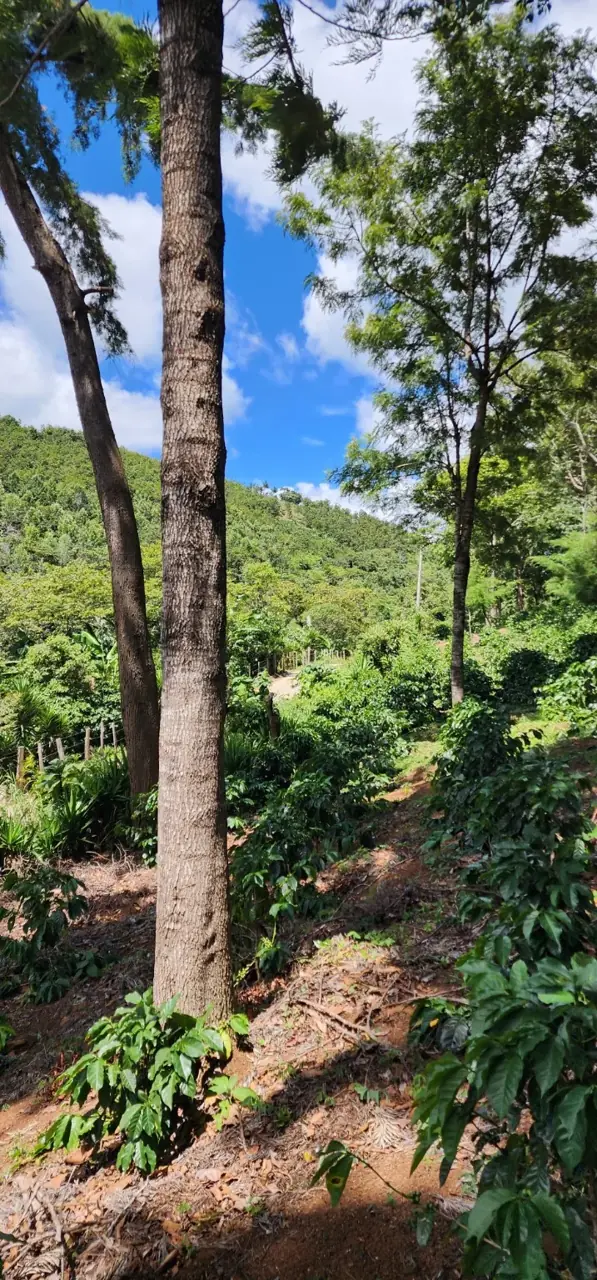
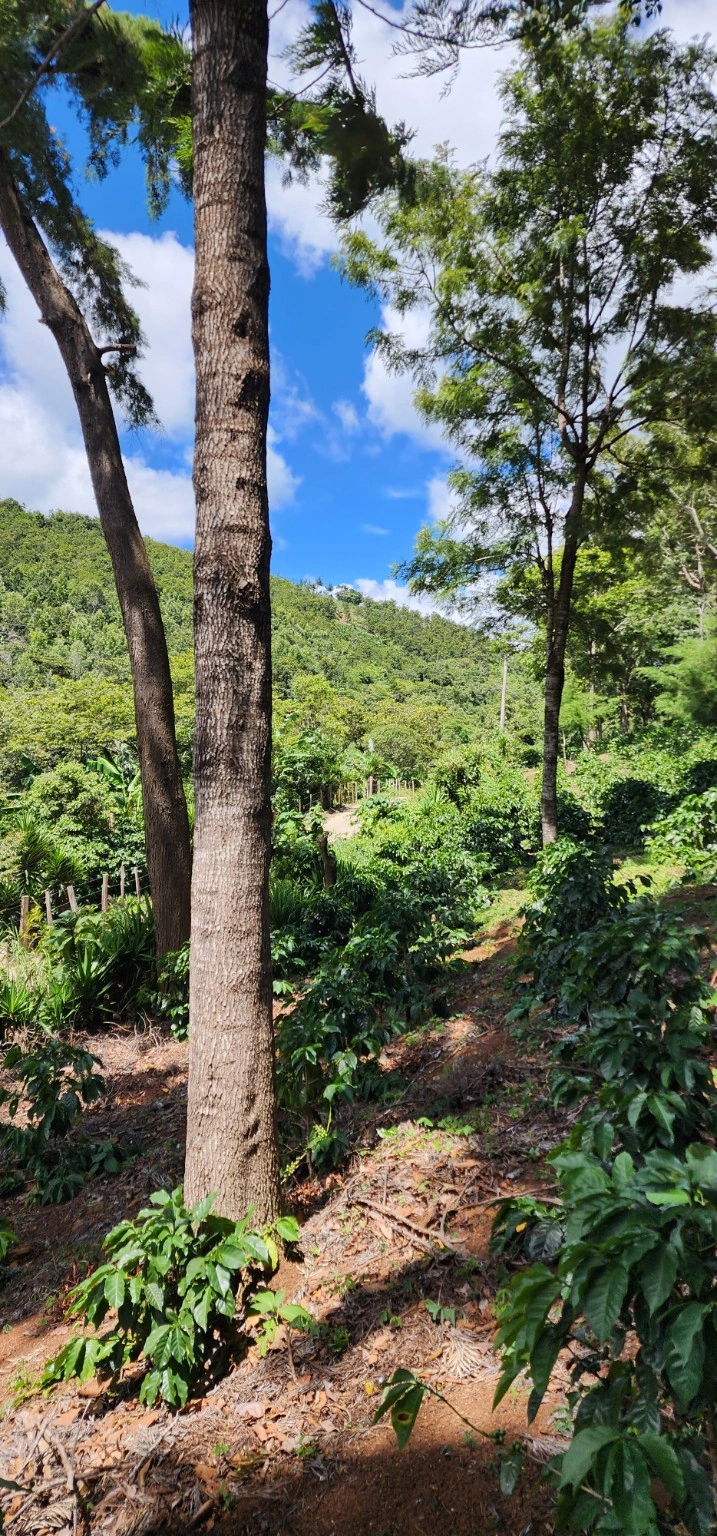
Restore original image resolution and avoid stretching portrait hero photographs

diff --git a/index.html b/index.html
@@ -5,7 +5,7 @@
 <meta name="viewport" content="width=device-width, initial-scale=1.0" />
 <title>Café Valencia | Jutiapa, Guatemala</title>
 <meta name="description" content="Café Valencia de Aldea Valencia, Jutiapa. Proceso Honey, presentación de una libra y pedidos por WhatsApp.">
-<link rel="stylesheet" href="assets/styles.css?v=20261025">
+<link rel="stylesheet" href="assets/styles.css?v=20261025b">
 <script src="assets/site.js" defer></script>
 </head>
 <body>
@@ -58,7 +58,9 @@
         </div>
       </div>
       <div class="hero-image">
+        <img class="hero-side" src="images/finca-sendero.webp" width="717" height="1536" decoding="async" alt="">
         <img src="images/finca-portada.webp" width="865" height="1536" fetchpriority="high" decoding="async" alt="Cafetales bajo árboles de sombra en Aldea Valencia, Jutiapa">
+        <img class="hero-side" src="images/finca-sombra.webp" width="865" height="1536" decoding="async" alt="">
       </div>
     </div>
   </div>

diff --git a/assets/styles.css b/assets/styles.css
@@ -253,3 +253,11 @@ footer { padding-block:42px; }
   .gallery img { aspect-ratio:3 / 4; }
   .cta-section { padding-block:56px; }
 }
+
+/* Preserve native photographic detail instead of enlarging a portrait across desktop. */
+.hero-image { display:grid; grid-template-columns:repeat(3,minmax(0,1fr)); }
+.hero-image img { min-width:0; height:100%; object-fit:cover; object-position:center; }
+@media (max-width:640px) {
+  .hero-image { grid-template-columns:minmax(0,1fr); }
+  .hero-image .hero-side { display:none; }
+}
